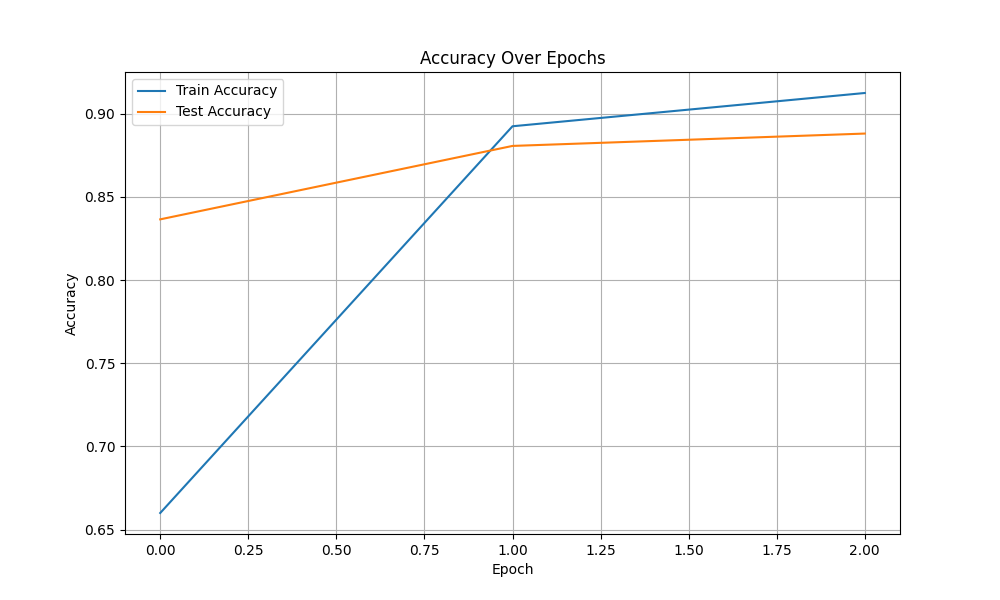
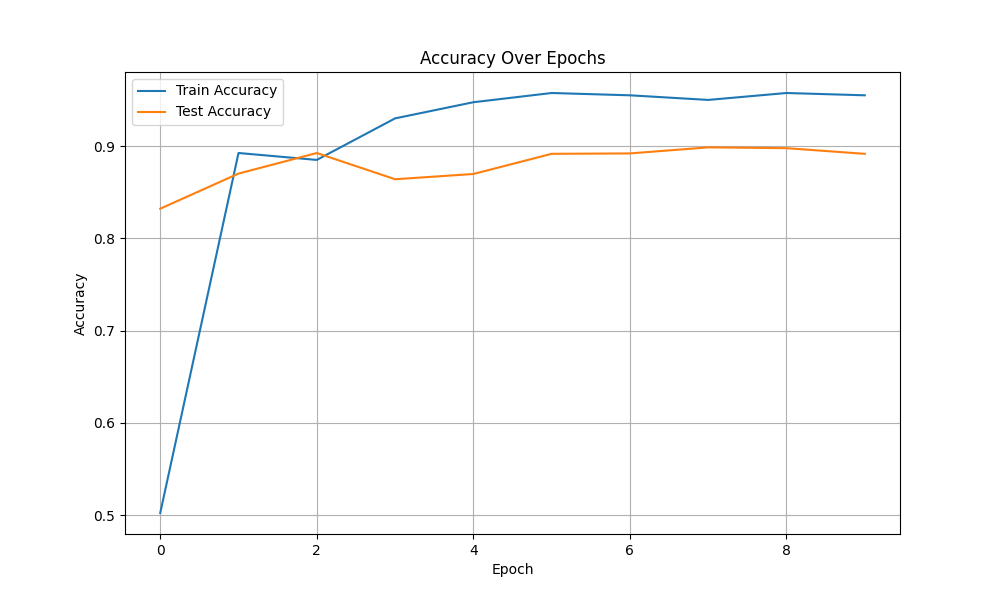
Function for fine-tuning

diff --git a/Week3/models.py b/Week3/models.py
@@ -63,6 +63,43 @@ class WraperModel(nn.Module):
         # Modify the classifier for the number of classes
         self.backbone.fc = nn.Linear(self.backbone.fc.in_features, num_classes)
 
+    def fine_tuning(self, unfreeze_blocks: int = 0):
+        """
+        
+        Sets the trainability of layers based on a desired depth.
+        This function implements progressive unfreezing from deep to shallow layers.
+        
+        Args:
+            unfreeze_blocks (int): The number of convolutional blocks to unfreeze starting from
+                the end of the network. MAX = 4 -> [0-4] (0: fc, 1: layer4, 2: layer3...)
+                                   
+        """
+        assert 0 <= unfreeze_blocks <= 4, "Unfreeze_blocks variable must be an int between 0 and 4."
+
+        print(f"\n--- Setting Fine-Tuning (Unfreezing {unfreeze_blocks} blocks) ---")
+        
+        # Classification head will be always trainable
+        # FOR THE MOMENT (see slides Transfer Learning)
+        for param in self.backbone.fc.parameters():
+            param.requires_grad = True
+        print("-> Classifier head (fc) is defrosted.")
+
+        # ResNeXt blocks in reverse order (deepest first)
+        blocks_reversed = [
+            ('layer4', self.backbone.layer4),
+            ('layer3', self.backbone.layer3),
+            ('layer2', self.backbone.layer2),
+            ('layer1', self.backbone.layer1)
+        ]
+
+        # Iterate and unfreeze the specified number of deep blocks
+        for i in range(unfreeze_blocks):
+            block_name, block_layer = blocks_reversed[i]
+            print(f"-> Unfreezing block: {block_name}")
+            for param in block_layer.parameters():
+                param.requires_grad = True
+                
+
     def forward(self, x):
         return self.backbone(x)
     
@@ -152,6 +189,7 @@ class WraperModel(nn.Module):
 
         return outputs
 
+
     def modify_layers(self, modify_fn: Callable[[nn.Module], nn.Module]):
         """
         Modify layers of the model using a provided function.
@@ -174,14 +212,10 @@ class WraperModel(nn.Module):
                          target_layer: List[Type[nn.Module]], 
                          targets: List[Type[ClassifierOutputTarget]]) -> Type[GradCAMPlusPlus]:
 
-        
-
         with GradCAMPlusPlus(model=self.backbone, target_layers=target_layer) as cam:
-
             grayscale_cam = cam(input_tensor=input_image, targets=targets)[0, :]
 
         return grayscale_cam
-
 
 
 

diff --git a/Week3/main.py b/Week3/main.py
@@ -148,9 +148,12 @@ if __name__ == "__main__":
 
     device = torch.device("cuda" if torch.cuda.is_available() else "cpu")
 
-    model = WraperModel(num_classes=8, feature_extraction=True)#SimpleModel(input_d=C*H*W, hidden_d=300, output_d=8)
-
+    model = WraperModel(num_classes=8)
     model = model.to(device)
+
+    UNFREEZE_DEPTH = 0
+    model.fine_tuning(unfreeze_blocks=UNFREEZE_DEPTH)
+
     criterion = nn.CrossEntropyLoss()
     optimizer = optim.Adam(model.parameters(), lr=0.001)
 
@@ -159,7 +162,7 @@ if __name__ == "__main__":
     # params_to_update = [p for p in model.parameters() if p.requires_grad] 
     # optimizer = optimizer.Adam(params_to_update, lr=0.001)
 
-    num_epochs = 3
+    num_epochs = 10
 
     train_losses, train_accuracies = [], []
     test_losses, test_accuracies = [], []
